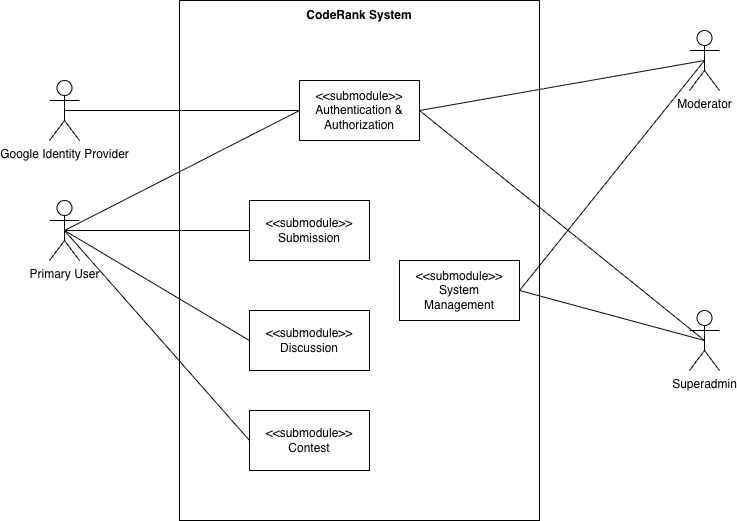
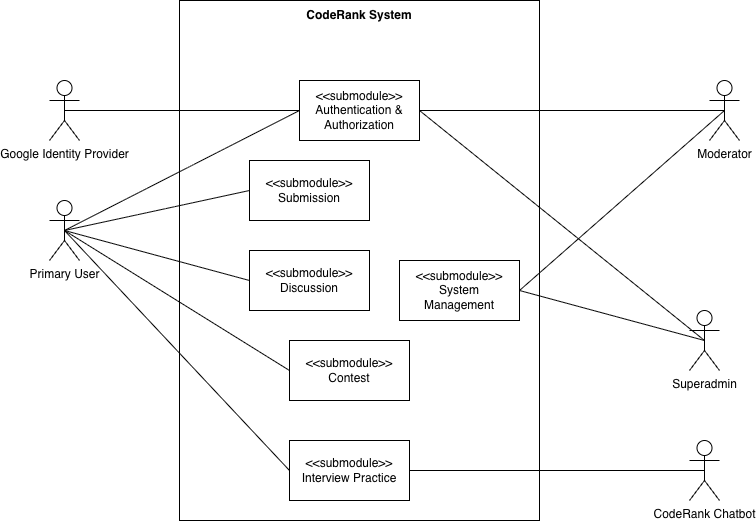
feat: add interview usecase

diff --git a/Contents/Chapter 3/Usecase/index.tex b/Contents/Chapter 3/Usecase/index.tex
@@ -16,6 +16,7 @@ Our system contains 5 main submodules:
     \item \textbf{System Management}: The administrative interface used by Moderator and Superadmin to manage the problem creation, test cases, contests management and global user accounts.
 Contest: Enables timed, high-stakes programming events with real-time ranking and automated leaderboards.
     \item \textbf{Submission}: This core module handles the presentation of the coding challenge and the automatic evaluation of the user's submitted solution.
+    \item \textbf{Interview Practice}: Provides a simulated coding interview environment where users can practice solving problems with instant feedback, mimicking real-world technical interviews.
 \end{itemize}
 
 \subsection{Use-case diagrams for each submodule}
@@ -67,6 +68,24 @@ To ensure that discussions remain constructive and aligned with community guidel
     \caption{Submission Use Case}
 \end{figure}
 The \textbf{Submission} submodule is the core execution engine and interaction point for all coding activities within the CodeRank system. Its primary function is to facilitate the practice and assessment workflow for the Primary User. Users begin by accessing the \textbf{View Problem} function, which presents the algorithmic challenge and requirements. The fundamental action in this module is the \textbf{Submit Solution} function, which securely receives the user's code, initiates the automatic grading process in a sandboxed environment, and returns the execution verdict. For oversight and quality assurance, both the Superadmin and Moderators are granted the ability to Monitor Submissions. This administrative function is vital for diagnosing issues with test cases, tracking potential cases of plagiarism, and ensuring the overall stability and fairness of the automated grading system.
+
+\clearpage
+\begin{figure}[h!]
+    \centering
+    \includegraphics[width=1\textwidth]{Contents/Chapter 3/Usecase/Images/ContestUsecase.png}
+    \vspace{0.6cm}
+    \caption{Contest Use Case}
+\end{figure}
+The Contest submodule is integral to the CodeRank platform, managing the entire lifecycle of competitive programming events. It provides the mechanism for the primary user to participate in a contest, engaging in time-constrained coding challenges with real-time feedback and ranking. The module also handles the initiation of new events, allowing primary users to submit contest creation requests. To maintain content quality and system integrity, all requests must undergo a review process conducted by both the Moderator and Superadmin roles.
+\clearpage
+\begin{figure}[h!]
+    \centering
+    \includegraphics[width=1\textwidth]{Contents/Chapter 3/Usecase/Images/InterviewUsecase.png}
+    \vspace{0.6cm}
+    \caption{Interview Practice Use Case}
+\end{figure}
+The \textbf{Interview Practice} submodule is designed to simulate real-world coding interviews, providing users with a platform to practice and refine their problem-solving skills under conditions that mimic actual technical interviews. There will be a Conversation History leftside bar that allows users to easily navigate between previous interview sessions. Users can initiate a new practice session by selecting the \textbf{New Conversation} button, which start a new interview session specified time frame. The Chatbot will first asking the user to choose the topic that he/she wants to practice. After that, user can start the interview practice by solving the coding problems presented by the chatbot. Once the user submits their solution, the system will automatically evaluate the code and provide instant feedback, including correctness, efficiency, and potential improvements. This immediate response helps users learn from their mistakes and understand best practices in coding interviews.
+
 \subsection{Use-case description tables}
 \input{Contents/Chapter 3/Usecase/Tables/uc-1.tex}
 \input{Contents/Chapter 3/Usecase/Tables/uc-2.tex}